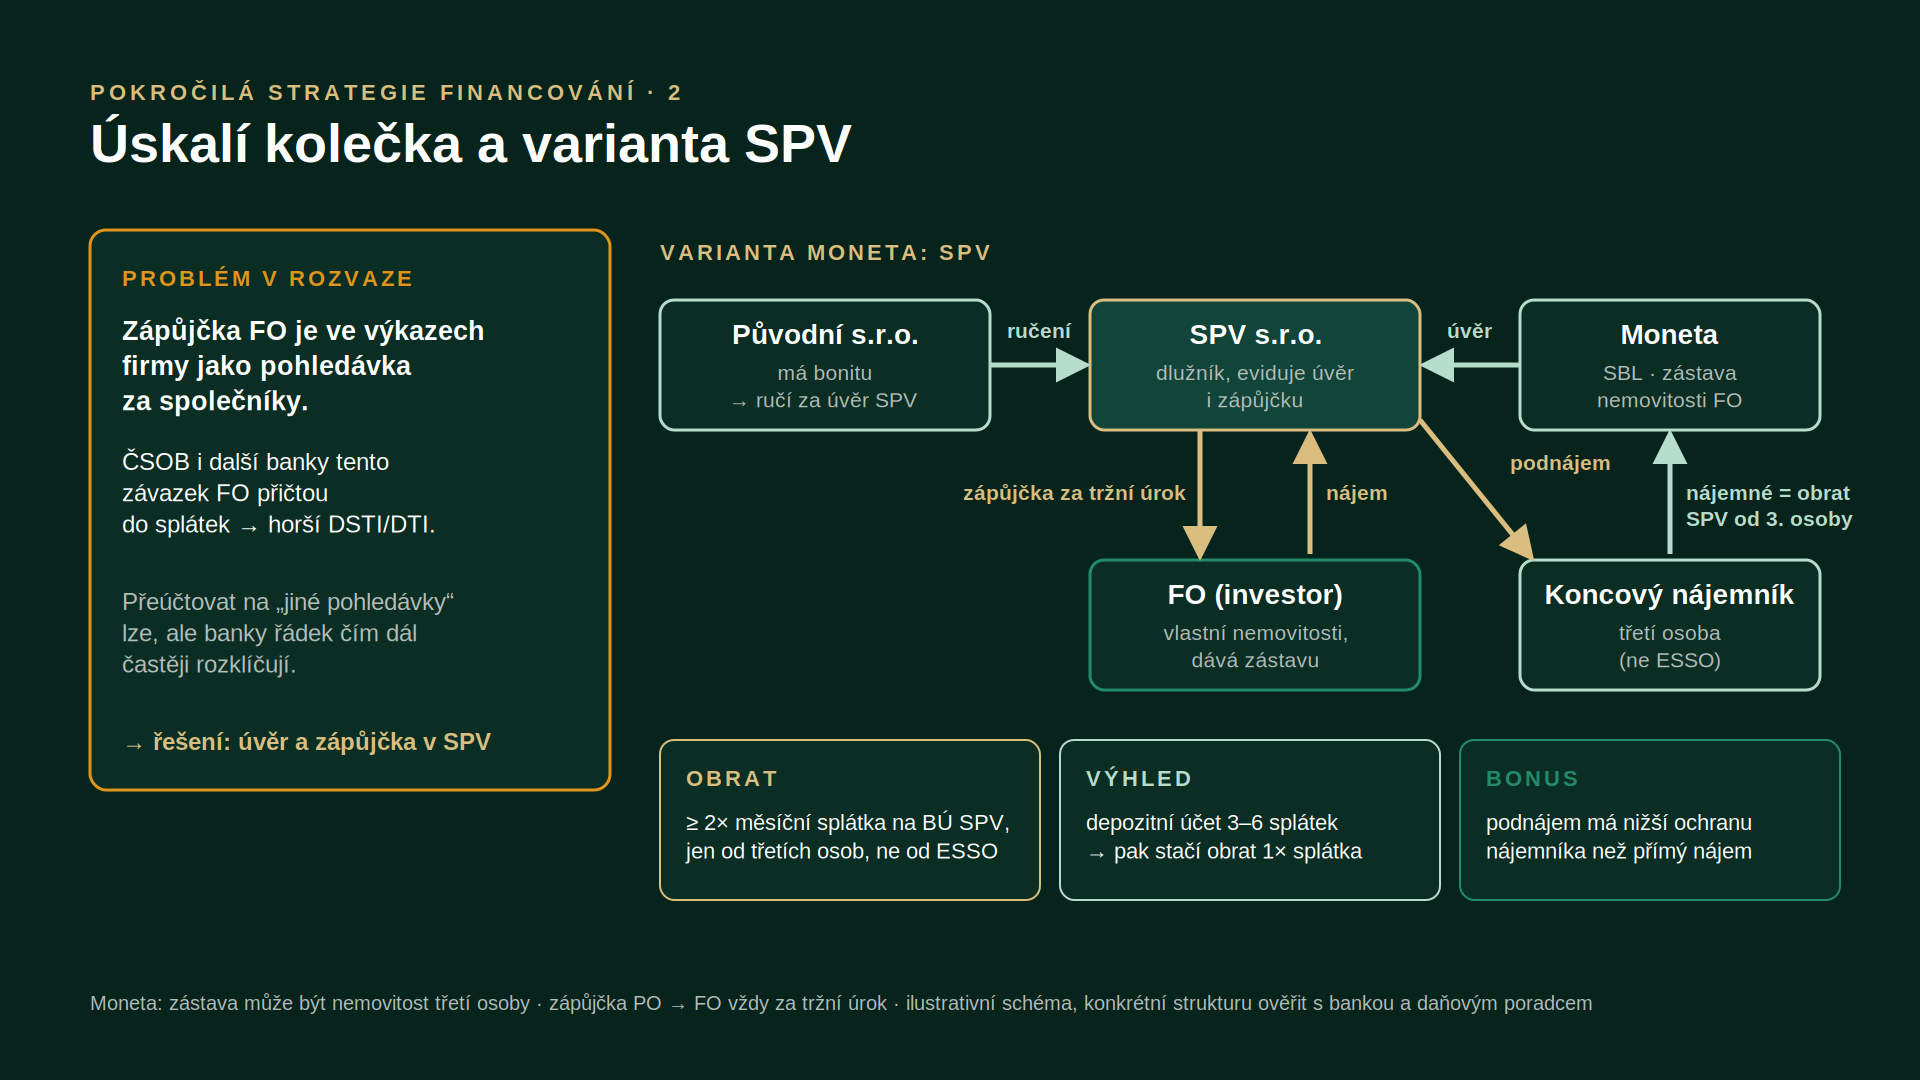
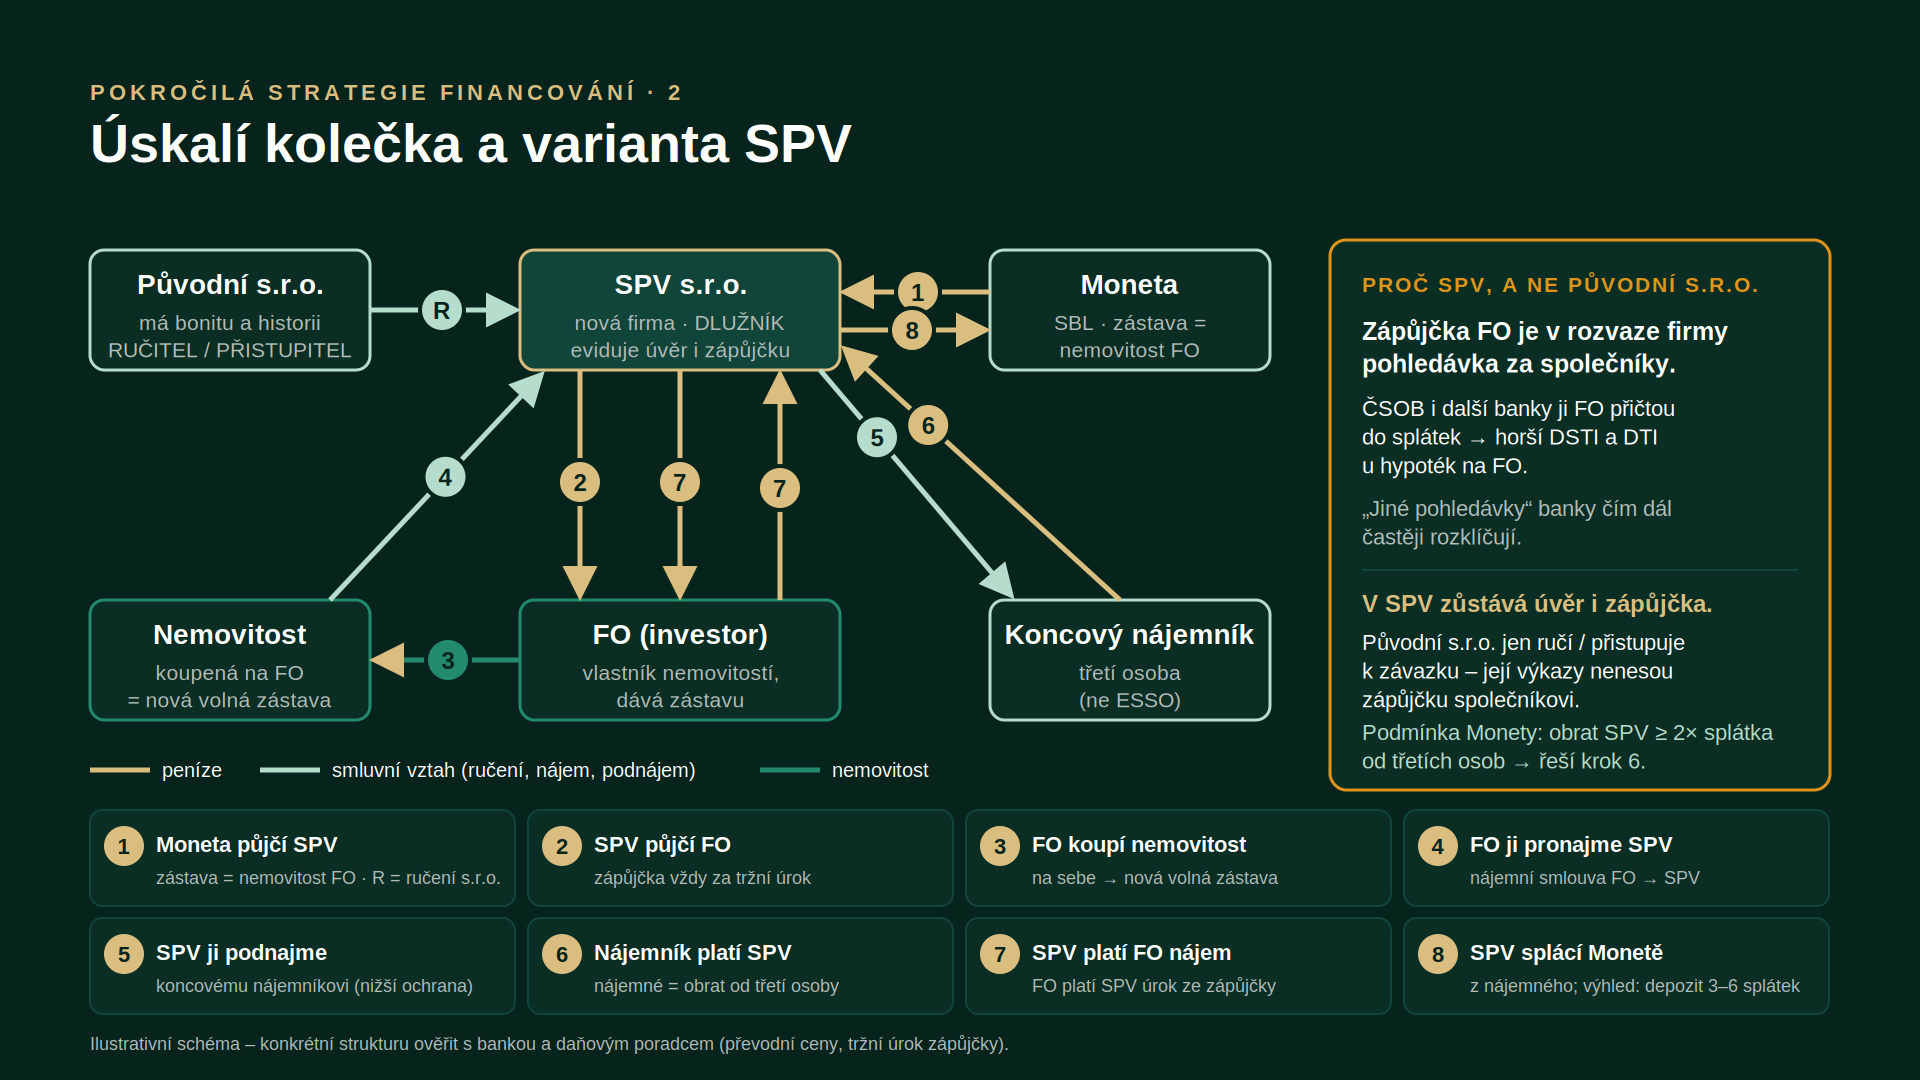
Zadání pro pokročilé v4: slide 16 a diagram SPV přepracovány podle přesného toku
Claude-Session: https://claude.ai/code/session_01TYTwxDPaHc2mnGtuFMXfZE

diff --git a/workshop-pokrocili/grafika/kolecko.py b/workshop-pokrocili/grafika/kolecko.py
@@ -112,54 +112,84 @@ def arrow(x1, y1, x2, y2, label="", col=GOLD, lx=None, ly=None, anchor="middle")
     return out
 
 
+def numbered_arrow(x1, y1, x2, y2, n, col=GOLD, t=0.5, dashed=False):
+    """Šipka s číslem kroku v kroužku (t = poloha kroužku na šipce 0–1)."""
+    m = "ahc" if col == CYAN else "ah"
+    dash = ' stroke-dasharray="12,10"' if dashed else ""
+    out = (f'<line x1="{x1}" y1="{y1}" x2="{x2}" y2="{y2}" stroke="{col}" stroke-width="5"{dash} '
+           f'marker-end="url(#{m})"/>')
+    cx, cy = x1 + (x2 - x1) * t, y1 + (y2 - y1) * t
+    out += f'<circle cx="{cx:.1f}" cy="{cy:.1f}" r="22" fill="{col}" stroke="{BG}" stroke-width="4"/>'
+    out += text(cx, cy + 9, str(n), 24, BG, "bold", "middle")
+    return out
+
+
 def spv():
     b = [header("POKROČILÁ STRATEGIE FINANCOVÁNÍ · 2", "Úskalí kolečka a varianta SPV")]
-    # levý sloupec – problém
-    lx, ly, lw = 90, 230, 520
-    b.append(f'<rect x="{lx}" y="{ly}" width="{lw}" height="560" rx="16" fill="{CARD}" stroke="{RED}" stroke-width="3"/>')
-    b.append(text(lx + 32, ly + 56, "PROBLÉM V ROZVAZE", 22, RED, "bold", spacing=3))
-    b.append(lines(lx + 32, ly + 110, ["Zápůjčka FO je ve výkazech", "firmy jako pohledávka", "za společníky."], 27, "#FFFFFF", "bold"))
-    b.append(lines(lx + 32, ly + 240, ["ČSOB i další banky tento", "závazek FO přičtou", "do splátek → horší DSTI/DTI."], 24, TXT))
-    b.append(lines(lx + 32, ly + 380, ["Přeúčtovat na „jiné pohledávky“", "lze, ale banky řádek čím dál", "častěji rozklíčují."], 24, MUTED))
-    b.append(text(lx + 32, ly + 520, "→ řešení: úvěr a zápůjčka v SPV", 24, GOLD, "bold"))
-    # pravá část – schéma
-    X0 = 660
-    b.append(text(X0, 260, "VARIANTA MONETA: SPV", 22, GOLD, "bold", spacing=3))
-    bw, bh = 330, 130
-    mat = (X0, 300)
-    spvb = (X0 + 430, 300)
-    bank = (X0 + 860, 300)
-    fo = (X0 + 430, 560)
-    ten = (X0 + 860, 560)
-    b.append(box(*mat, bw, bh, "Původní s.r.o.", ["má bonitu", "→ ručí za úvěr SPV"], CYAN))
-    b.append(box(*spvb, bw, bh, "SPV s.r.o.", ["dlužník, eviduje úvěr", "i zápůjčku"], GOLD, CARD2))
-    b.append(box(*bank, 300, bh, "Moneta", ["SBL · zástava", "nemovitosti FO"], CYAN))
-    b.append(box(fo[0], fo[1], bw, bh, "FO (investor)", ["vlastní nemovitosti,", "dává zástavu"], GREEN))
-    b.append(box(ten[0], ten[1], 300, bh, "Koncový nájemník", ["třetí osoba", "(ne ESSO)"], CYAN))
-    # šipky
-    b.append(arrow(mat[0] + bw, 365, spvb[0] - 6, 365, "ručení", CYAN, (mat[0] + bw + spvb[0]) / 2, 338))
-    b.append(arrow(bank[0], 365, spvb[0] + bw + 6, 365, "úvěr", CYAN, (bank[0] + spvb[0] + bw) / 2, 338))
-    b.append(arrow(spvb[0] + 110, 430, fo[0] + 110, 554, "zápůjčka za tržní úrok", GOLD, spvb[0] + 96, 500, "end"))
-    b.append(arrow(fo[0] + 220, 554, spvb[0] + 220, 436, "nájem", GOLD, spvb[0] + 236, 500, "start"))
-    b.append(arrow(spvb[0] + bw, 420, ten[0] + 10, 556, "podnájem", GOLD, spvb[0] + bw + 90, 470, "start"))
-    b.append(arrow(ten[0] + 150, 554, bank[0] + 150, 436, "", CYAN))
-    b.append(text(ten[0] + 166, 500, "nájemné = obrat", 21, CYAN, "bold"))
-    b.append(text(ten[0] + 166, 526, "SPV od 3. osoby", 21, CYAN, "bold"))
-    # spodní pás podmínek
-    y0 = 740
-    cards = [
-        ("OBRAT", ["≥ 2× měsíční splátka na BÚ SPV,", "jen od třetích osob, ne od ESSO"], GOLD),
-        ("VÝHLED", ["depozitní účet 3–6 splátek", "→ pak stačí obrat 1× splátka"], CYAN),
-        ("BONUS", ["podnájem má nižší ochranu", "nájemníka než přímý nájem"], GREEN),
+    # ---- schéma vlevo (x 90–1270) ----
+    W_, H_ = 280, 120
+    A = (90, 250)      # původní s.r.o.
+    B = (520, 250)     # SPV (šířka 320)
+    C = (990, 250)     # Moneta
+    E = (90, 600)      # nemovitost
+    D = (520, 600)     # FO (šířka 320)
+    F = (990, 600)     # nájemník
+    b.append(box(*A, W_, H_, "Původní s.r.o.", ["má bonitu a historii", "RUČITEL / PŘISTUPITEL"], CYAN))
+    b.append(box(*B, 320, H_, "SPV s.r.o.", ["nová firma · DLUŽNÍK", "eviduje úvěr i zápůjčku"], GOLD, CARD2))
+    b.append(box(*C, W_, H_, "Moneta", ["SBL · zástava =", "nemovitost FO"], CYAN))
+    b.append(box(*E, W_, H_, "Nemovitost", ["koupená na FO", "= nová volná zástava"], GREEN))
+    b.append(box(D[0], D[1], 320, H_, "FO (investor)", ["vlastník nemovitostí,", "dává zástavu"], GREEN))
+    b.append(box(*F, W_, H_, "Koncový nájemník", ["třetí osoba", "(ne ESSO)"], CYAN))
+    # peníze = zlatá, smluvní vztah / nemovitost = mátová
+    b.append(numbered_arrow(C[0], 292, B[0] + 320 + 6, 292, 1, GOLD, 0.5))                 # Moneta → SPV úvěr
+    b.append(numbered_arrow(B[0] + 320, 330, C[0] - 6, 330, 8, GOLD, 0.5))                 # SPV → Moneta splátka
+    b.append(numbered_arrow(A[0] + W_, 310, B[0] - 6, 310, "R", CYAN, 0.5))               # ručení
+    b.append(numbered_arrow(B[0] + 60, B[1] + H_, D[0] + 60, D[1] - 6, 2, GOLD, 0.5))     # SPV → FO zápůjčka
+    b.append(numbered_arrow(B[0] + 160, B[1] + H_, D[0] + 160, D[1] - 6, 7, GOLD, 0.5))   # SPV → FO nájem
+    b.append(numbered_arrow(D[0] + 260, D[1], B[0] + 260, B[1] + H_ + 6, "7", GOLD, 0.5)) # FO → SPV úrok
+    b.append(numbered_arrow(D[0], 660, E[0] + W_ + 6, 660, 3, GREEN, 0.5))               # FO → nemovitost koupě
+    b.append(numbered_arrow(E[0] + W_ - 40, E[1], B[0] + 20, B[1] + H_ + 6, 4, CYAN, 0.55)) # nemovitost → SPV nájem FO→SPV
+    b.append(numbered_arrow(B[0] + 300, B[1] + H_, F[0] + 20, F[1] - 6, 5, CYAN, 0.3))  # SPV → nájemník podnájem
+    b.append(numbered_arrow(F[0] + 130, F[1], B[0] + 320 + 6, B[1] + H_ - 20, 6, GOLD, 0.7)) # nájemník → SPV nájemné
+    # legenda
+    b.append(f'<line x1="90" y1="770" x2="150" y2="770" stroke="{GOLD}" stroke-width="5"/>')
+    b.append(text(162, 777, "peníze", 20, TXT))
+    b.append(f'<line x1="260" y1="770" x2="320" y2="770" stroke="{CYAN}" stroke-width="5"/>')
+    b.append(text(332, 777, "smluvní vztah (ručení, nájem, podnájem)", 20, TXT))
+    b.append(f'<line x1="760" y1="770" x2="820" y2="770" stroke="{GREEN}" stroke-width="5"/>')
+    b.append(text(832, 777, "nemovitost", 20, TXT))
+    # ---- pravý panel: proč SPV ----
+    px, py, pw, ph = 1330, 240, 500, 550
+    b.append(f'<rect x="{px}" y="{py}" width="{pw}" height="{ph}" rx="16" fill="{CARD}" stroke="{RED}" stroke-width="3"/>')
+    b.append(text(px + 32, py + 52, "PROČ SPV, A NE PŮVODNÍ S.R.O.", 21, RED, "bold", spacing=2))
+    b.append(lines(px + 32, py + 100, ["Zápůjčka FO je v rozvaze firmy", "pohledávka za společníky."], 25, "#FFFFFF", "bold"))
+    b.append(lines(px + 32, py + 176, ["ČSOB i další banky ji FO přičtou", "do splátek → horší DSTI a DTI", "u hypoték na FO."], 22, TXT))
+    b.append(lines(px + 32, py + 276, ["„Jiné pohledávky“ banky čím dál", "častěji rozklíčují."], 22, MUTED))
+    b.append(f'<line x1="{px + 32}" y1="{py + 330}" x2="{px + pw - 32}" y2="{py + 330}" stroke="{CARD2}" stroke-width="2"/>')
+    b.append(text(px + 32, py + 372, "V SPV zůstává úvěr i zápůjčka.", 24, GOLD, "bold"))
+    b.append(lines(px + 32, py + 410, ["Původní s.r.o. jen ručí / přistupuje", "k závazku – její výkazy nenesou", "zápůjčku společníkovi."], 22, TXT))
+    b.append(lines(px + 32, py + 500, ["Podmínka Monety: obrat SPV ≥ 2× splátka", "od třetích osob → řeší krok 6."], 22, CYAN))
+    # ---- spodní pás: kroky ----
+    steps = [
+        ("1", "Moneta půjčí SPV", "zástava = nemovitost FO · R = ručení s.r.o."),
+        ("2", "SPV půjčí FO", "zápůjčka vždy za tržní úrok"),
+        ("3", "FO koupí nemovitost", "na sebe → nová volná zástava"),
+        ("4", "FO ji pronajme SPV", "nájemní smlouva FO → SPV"),
+        ("5", "SPV ji podnajme", "koncovému nájemníkovi (nižší ochrana)"),
+        ("6", "Nájemník platí SPV", "nájemné = obrat od třetí osoby"),
+        ("7", "SPV platí FO nájem", "FO platí SPV úrok ze zápůjčky"),
+        ("8", "SPV splácí Monetě", "z nájemného; výhled: depozit 3–6 splátek"),
     ]
-    cw = 380
-    for i, (h, s, col) in enumerate(cards):
-        x = X0 + i * (cw + 20)
-        b.append(f'<rect x="{x}" y="{y0}" width="{cw}" height="160" rx="14" fill="{CARD}" stroke="{col}" stroke-width="2"/>')
-        b.append(text(x + 26, y0 + 46, h, 22, col, "bold", spacing=3))
-        b.append(lines(x + 26, y0 + 90, s, 22, TXT))
-    b.append(text(90, 1010, "Moneta: zástava může být nemovitost třetí osoby · zápůjčka PO → FO vždy za tržní úrok · "
-                  "ilustrativní schéma, konkrétní strukturu ověřit s bankou a daňovým poradcem", 20, MUTED))
+    x0, y0, cw, ch = 90, 810, 425, 96
+    for i, (n, h, sub) in enumerate(steps):
+        x = x0 + (i % 4) * (cw + 13)
+        y = y0 + (i // 4) * (ch + 12)
+        b.append(f'<rect x="{x}" y="{y}" width="{cw}" height="{ch}" rx="12" fill="{CARD}" stroke="{CARD2}" stroke-width="2"/>')
+        b.append(f'<circle cx="{x + 34}" cy="{y + 36}" r="20" fill="{GOLD}"/>')
+        b.append(text(x + 34, y + 44, n, 22, BG, "bold", "middle"))
+        b.append(text(x + 66, y + 42, h, 22, "#FFFFFF", "bold"))
+        b.append(text(x + 66, y + 74, sub, 18, MUTED))
+    b.append(text(90, 1050, "Ilustrativní schéma – konkrétní strukturu ověřit s bankou a daňovým poradcem (převodní ceny, tržní úrok zápůjčky).", 18, MUTED))
     return svg("".join(b))
 
 

diff --git a/workshop-pokrocili/zadani-prezentace-2026-09-24.md b/workshop-pokrocili/zadani-prezentace-2026-09-24.md
@@ -1,7 +1,7 @@
 # Zadání prezentace – Workshop financování pro pokročilé investory
 
 **Termín:** 24. 9. 2026, 18:00–20:30 · **Místo:** Baťův palác, Václavské náměstí 774/6, Praha 1 · **Lektor:** Adam Pospíšil, Evergreen Finance (egfin.cz), adamovyfinance.cz
-**Rozsah:** 19 slidů (vč. 12a), 16:9, česky · **Verze zadání:** 24. 9. 2026, v3 (Home Credit podle hovoru 24. 9.: slidy 6, 12, nový slide 12a; v2: místo a čas, startup ČS, posloupnost bank) · **Navazuje na:** `../workshop-zacatecnici/zadani-prezentace-2026-09-23.md` (stejný vizuální systém)
+**Rozsah:** 19 slidů (vč. 12a), 16:9, česky · **Verze zadání:** 24. 9. 2026, v4 (slide 16 přepracován: SPV dlužník, původní s.r.o. ručitel, tok nájem FO → SPV → podnájem; v3: Home Credit, slide 12a; v2: místo a čas, startup ČS) · **Navazuje na:** `../workshop-zacatecnici/zadani-prezentace-2026-09-23.md` (stejný vizuální systém)
 
 ## Jak se zadáním pracovat
 
@@ -19,6 +19,10 @@
 ### Doplňující prompt pro Claude Design – Home Credit (v3, zkopírovat do rozpracované prezentace)
 
 > Aktualizuj prezentaci podle nové verze zadání (v3, přikládám zadani-prezentace-2026-09-24.md). Měň jen Home Credit, ostatní slidy nech beze změny. 1) Slide 6 (matice bank), sloupec Home Credit: sazba 8,5–10,5 %; max. LTV Praha a Brno 70–75 %, krajská města 65–70 %, komerce 60 %; výše 5–150 mil. Kč na projekt, 200 mil. Kč na skupinu; splatnost max. 20 let, anuitně; bonita 90 % čistého nájmu (bez služeb a fondu oprav), příjmy ESSO přes ručitelskou společnost; poplatky 2 %, max. 80 000 Kč + supervize 15 000 Kč. 2) Slide 12 (Fio, Credix, Home Credit): přepiš sloupec Home Credit a přidej řádek „Bonita“ přesně podle tabulky v zadání; kartu Home Credit změň na „bridge, refinancování + hotovost navíc, refinancování s rekonstrukcí i při dočasném výpadku nájmu, development bez předprodejů (slide 12a)“; speaker notes podle „Lektor říká“. 3) Vlož nový slide 12a „Home Credit: investiční a developerský úvěr“ mezi slide 12 a 13, štítek „BLOK 4 · BANKY“, světlé pozadí: vlevo karta „Investiční úvěr“, vpravo karta „Development“ s procesem čerpání jako 4 číslované kroky se zlatými čísly (fotky a videa stavby → supervize prostavěnosti Air Bank → čerpání druhý den → opakovat do konce stavby), velká čísla 8,5–10,5 % a 8,5–9,5 % v JetBrains Mono, dole pruh „Pravidla splácení“ se zvýrazněním „žádné balony“ zelenou #238A6C. Texty a čísla převezmi doslova ze sekce „Slide 12a“, poznámky pro lektora jen do speaker notes. 4) Slide 17: v kartě Zástava nahraď text o Home Creditu textem „HC: vyvázání jednotky při prodeji – 80 % ceny bez DPH na splátku“. Styl, písma a barvy zachovej stejné jako na ostatních slidech. Ukaž mi nejdřív slide 12a.
+
+### Doplňující prompt pro Claude Design – slide 16 (v4, zkopírovat do rozpracované prezentace)
+
+> Přepracuj slide 16 „Úskalí kolečka a varianta SPV“ podle nové verze zadání (v4, přikládám zadani-prezentace-2026-09-24.md) a podle přiloženého obrázku kolecko-spv.png. Ostatní slidy nech beze změny. Slide je tmavě zelený (#06231C). Vlevo na 2/3 šířky překresli nativně schéma šesti uzlů ve dvou řadách: nahoře Původní s.r.o. (RUČITEL / PŘISTUPITEL), SPV s.r.o. (DLUŽNÍK, zvýrazněný zlatým rámečkem) a Moneta; dole Nemovitost, FO (investor) a Koncový nájemník – texty uzlů převezmi doslova ze zadání. Šipky mezi uzly mají číslo kroku v kroužku a tři barvy: zlatá #D9BE7F = peníze, světlá mátová #B6DCCB = smluvní vztah (ručení, nájem, podnájem), zelená #238A6C = nemovitost; směr a číslování šipek přesně podle seznamu „šipky“ v zadání (R, 1–8), pod schématem legenda barev. Vpravo na 1/3 šířky karta „PROČ SPV, A NE PŮVODNÍ S.R.O.“ s varovným rámečkem #E0951A a textem ze zadání, tučně „V SPV zůstává úvěr i zápůjčka.“. Dole pás osmi kroků ve dvou řadách po čtyřech, každý se zlatým číslem, tučným názvem a jednořádkovým popisem podle tabulky kroků v zadání. Patička slidu podle zadání, poznámky pro lektora jen do speaker notes. Písma, štítek bloku a logo v patičce stejné jako na ostatních slidech. Ukaž mi výsledek.
 
 ## 1. Parametry akce a publikum
 
@@ -343,14 +347,32 @@ Při skluzu zkrátit slidy 10 a 17, ne blok 5 (strategie je vyvrcholení).
 
 ### Slide 16 – Úskalí kolečka a varianta SPV (BLOK 5)
 
-- **Účel:** kde kolečko narazí a jak to řeší varianta s SPV.
-- **Rozvržení:** vlevo varovná karta „Problém v rozvaze“, vpravo schéma pěti uzlů se šipkami, dole tři karty podmínek. Předloha: `grafika/kolecko-spv.png`.
-- **Obsah slidu:**
-  - Problém v rozvaze: Zápůjčka FO je ve výkazech firmy jako pohledávka za společníky. · ČSOB i další banky tento závazek FO přičtou do splátek → horší DSTI/DTI. · Přeúčtovat na „jiné pohledávky“ lze, ale banky řádek čím dál častěji rozklíčují. · → řešení: úvěr a zápůjčka v SPV
-  - Schéma „Varianta Moneta: SPV“: Původní s.r.o. (má bonitu) —ručení→ SPV s.r.o. (dlužník, eviduje úvěr i zápůjčku) ←úvěr— Moneta (SBL, zástava nemovitosti FO) · SPV —zápůjčka za tržní úrok→ FO (investor) · FO —nájem→ SPV · SPV —podnájem→ Koncový nájemník (třetí osoba, ne ESSO) · nájemník → nájemné = obrat SPV od třetí osoby
-  - Karty: **Obrat** ≥ 2× měsíční splátka na BÚ SPV, jen od třetích osob · **Výhled** depozitní účet 3–6 splátek → pak stačí obrat 1× splátka · **Bonus** podnájem má nižší ochranu nájemníka než přímý nájem
-  - Patička slidu: Ilustrativní schéma, konkrétní strukturu ověřit s bankou a daňovým poradcem.
-- **Lektor říká:** start SPV lze podpořit startup úvěrem ČS (1,2 mil. Kč, 84 měsíců, lze i na nové SPV) – vlastní zdroje, první obraty a historie.
+- **Účel:** kde kolečko narazí (pohledávka za společníky v rozvaze) a jak to řeší varianta s SPV – kdo je dlužník, kdo ručí a jak tečou peníze.
+- **Rozvržení:** tmavě zelený slide. Vlevo (2/3 šířky) schéma šesti uzlů ve dvou řadách: nahoře Původní s.r.o. · SPV s.r.o. · Moneta, dole Nemovitost · FO (investor) · Koncový nájemník. Šipky s číslem kroku v kroužku; barvy šipek: zlatá = peníze, světlá mátová = smluvní vztah (ručení, nájem, podnájem), zelená = nemovitost; pod schématem legenda. Vpravo (1/3) varovná karta „Proč SPV, a ne původní s.r.o.“. Dole pás osmi číslovaných kroků (4 × 2). Předloha: `grafika/kolecko-spv.png`.
+- **Obsah slidu – uzly:**
+  - Původní s.r.o. – má bonitu a historii · RUČITEL / PŘISTUPITEL
+  - SPV s.r.o. – nová firma · DLUŽNÍK · eviduje úvěr i zápůjčku (zvýrazněný uzel, zlatý rámeček)
+  - Moneta – SBL · zástava = nemovitost FO
+  - Nemovitost – koupená na FO = nová volná zástava
+  - FO (investor) – vlastník nemovitostí, dává zástavu
+  - Koncový nájemník – třetí osoba (ne ESSO)
+- **Obsah slidu – šipky (číslo = krok):** R Původní s.r.o. → SPV (ručení, mátová) · 1 Moneta → SPV (zlatá) · 8 SPV → Moneta (zlatá) · 2 SPV → FO (zlatá) · 7 SPV → FO (zlatá) a 7 FO → SPV (zlatá) · 3 FO → Nemovitost (zelená) · 4 Nemovitost → SPV (mátová) · 5 SPV → Koncový nájemník (mátová) · 6 Koncový nájemník → SPV (zlatá)
+- **Obsah slidu – kroky (pás dole):**
+
+| # | Krok | Popis |
+| --- | --- | --- |
+| 1 | Moneta půjčí SPV | zástava = nemovitost FO · R = ručení s.r.o. |
+| 2 | SPV půjčí FO | zápůjčka vždy za tržní úrok |
+| 3 | FO koupí nemovitost | na sebe → nová volná zástava |
+| 4 | FO ji pronajme SPV | nájemní smlouva FO → SPV |
+| 5 | SPV ji podnajme | koncovému nájemníkovi (nižší ochrana) |
+| 6 | Nájemník platí SPV | nájemné = obrat od třetí osoby |
+| 7 | SPV platí FO nájem | FO platí SPV úrok ze zápůjčky |
+| 8 | SPV splácí Monetě | z nájemného; výhled: depozit 3–6 splátek |
+
+- **Obsah slidu – karta „Proč SPV, a ne původní s.r.o.“:** Zápůjčka FO je v rozvaze firmy pohledávka za společníky. · ČSOB i další banky ji FO přičtou do splátek → horší DSTI a DTI u hypoték na FO. · „Jiné pohledávky“ banky čím dál častěji rozklíčují. · **V SPV zůstává úvěr i zápůjčka.** Původní s.r.o. jen ručí / přistupuje k závazku – její výkazy nenesou zápůjčku společníkovi. · Podmínka Monety: obrat SPV ≥ 2× splátka od třetích osob → řeší krok 6.
+  - Patička slidu: Ilustrativní schéma – konkrétní strukturu ověřit s bankou a daňovým poradcem (převodní ceny, tržní úrok zápůjčky).
+- **Lektor říká:** SPV je dlužník, původní s.r.o. ručitel nebo přistupitel k závazku. SPV půjčí FO, FO koupí nemovitost, tu pronajme SPV a SPV ji podnajme koncovému nájemníkovi. Nájemné tak platí koncový nájemník do SPV – to je obrat od třetí osoby, který Moneta vyžaduje – a z SPV jdou peníze FO formou nájmu. Bonus: podnájem má nižší ochranu nájemníka než přímý nájem. Start SPV lze podpořit startup úvěrem ČS (1,2 mil. Kč, 84 měsíců, lze i na nové SPV) – vlastní zdroje, první obraty a historie.
 
 ### Slide 17 – Zástava, odhad a proces (BLOK 6 · PRAXE)
 
